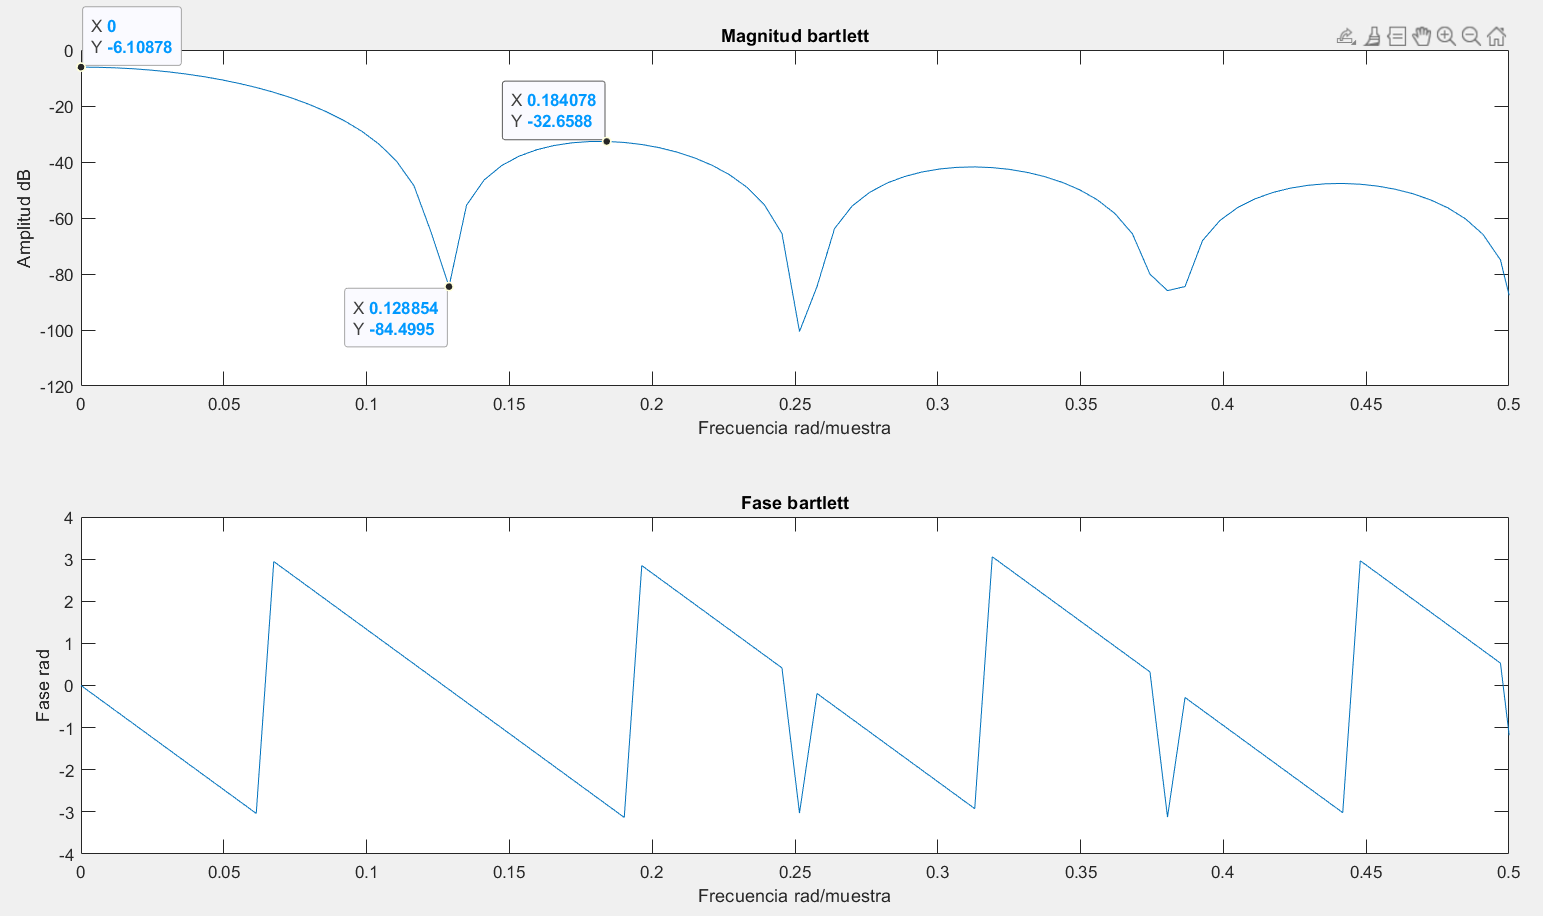
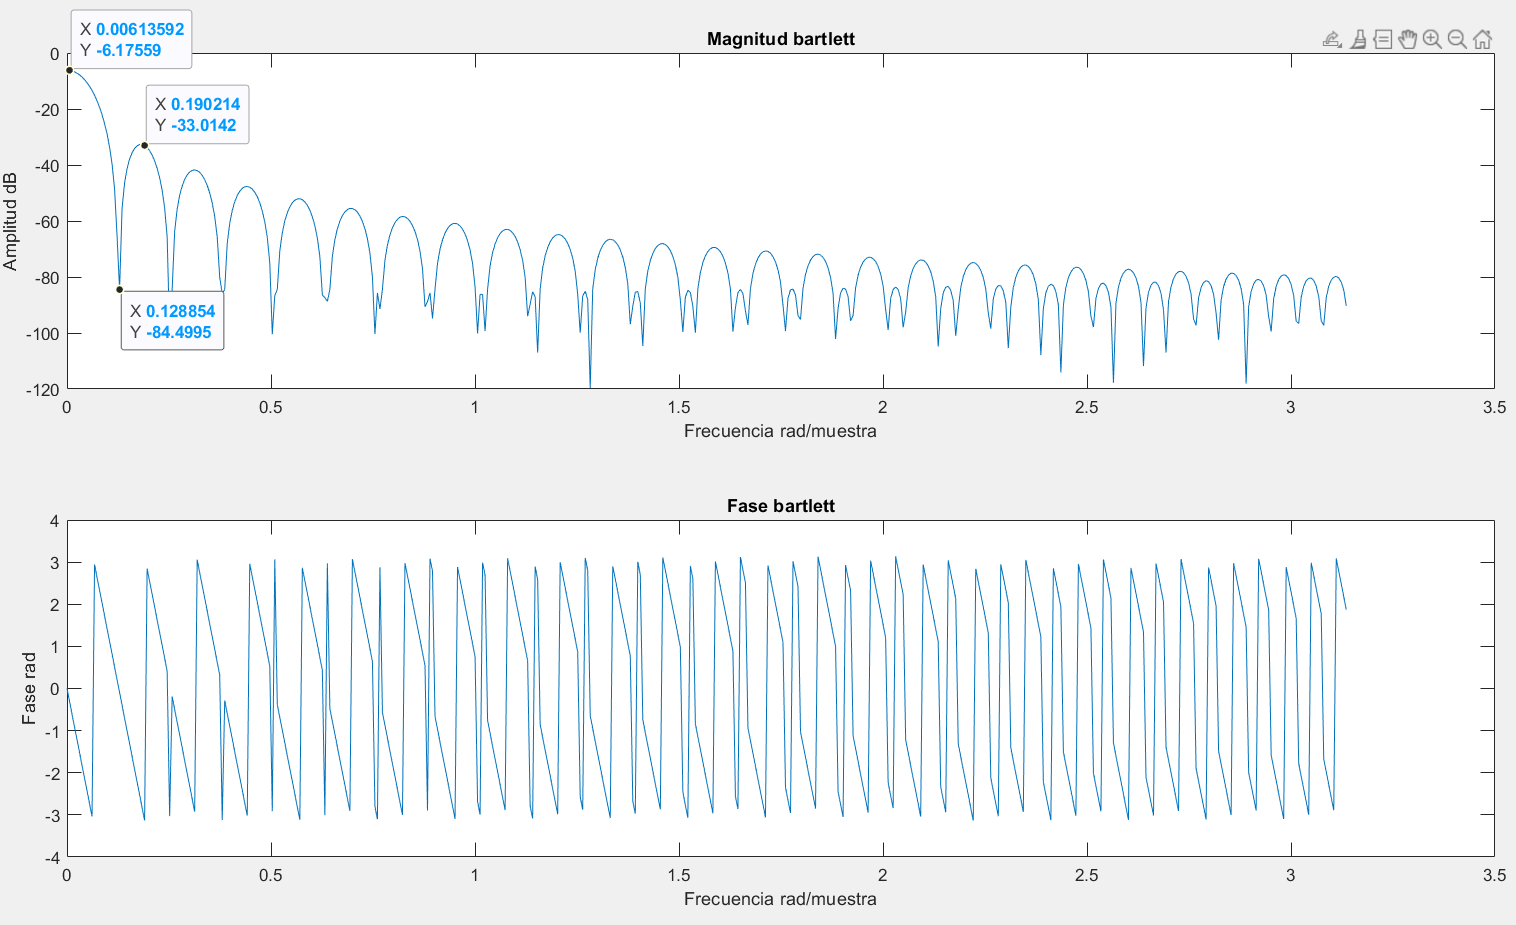
lab3 p1 III 1)
algo avance de la III 1) pero no desarrolle nada xd

diff --git a/lab3dsp_G7_Aguilera_Huidobro/LabP1/scripts/Parte2.m b/lab3dsp_G7_Aguilera_Huidobro/LabP1/scripts/Parte2.m
@@ -67,12 +67,10 @@ xlabel('Muestras');ylabel('Amplitud');
 figure
 subplot 211
 plot(W,20*log10(abs(H)))
-xlim([0 0.5]);
 title('Magnitud rectwin');
 xlabel('Frecuencia rad/muestra');ylabel('Amplitud dB');
 subplot 212
 plot(W,angle(H))
-xlim([0 0.5]);
 title('Fase rectwin');
 xlabel('Frecuencia rad/muestra');ylabel('Fase rad');
 
@@ -80,12 +78,10 @@ xlabel('Frecuencia rad/muestra');ylabel('Fase rad');
 figure
 subplot 211
 plot(W,20*log10(abs(H)))
-xlim([0 0.5]);
 title('Magnitud hann');
 xlabel('Frecuencia rad/muestra');ylabel('Amplitud dB');
 subplot 212
 plot(W,angle(H))
-xlim([0 0.5]);
 title('Fase hann');
 xlabel('Frecuencia rad/muestra');ylabel('Fase rad');
 
@@ -93,12 +89,10 @@ xlabel('Frecuencia rad/muestra');ylabel('Fase rad');
 figure
 subplot 211
 plot(W,20*log10(abs(H)))
-xlim([0 0.5]);
 title('Magnitud hamming');
 xlabel('Frecuencia rad/muestra');ylabel('Amplitud dB');
 subplot 212
 plot(W,angle(H))
-xlim([0 0.5]);
 title('Fase hamming');
 xlabel('Frecuencia rad/muestra');ylabel('Fase rad');
 
@@ -106,12 +100,10 @@ xlabel('Frecuencia rad/muestra');ylabel('Fase rad');
 figure
 subplot 211
 plot(W,20*log10(abs(H)))
-xlim([0 0.5]);
 title('Magnitud blackman');
 xlabel('Frecuencia rad/muestra');ylabel('Amplitud dB');
 subplot 212
 plot(W,angle(H))
-xlim([0 0.5]);
 title('Fase blackman');
 xlabel('Frecuencia rad/muestra');ylabel('Fase rad');
 
@@ -119,12 +111,10 @@ xlabel('Frecuencia rad/muestra');ylabel('Fase rad');
 figure
 subplot 211
 plot(W,20*log10(abs(H)))
-xlim([0 0.5]);
 title('Magnitud bartlett');
 xlabel('Frecuencia rad/muestra');ylabel('Amplitud dB');
 subplot 212
 plot(W,angle(H))
-xlim([0 0.5]);
 title('Fase bartlett');
 xlabel('Frecuencia rad/muestra');ylabel('Fase rad');
 %% funcions

diff --git a/lab3dsp_G7_Aguilera_Huidobro/LabP1/scripts/Parte3.m b/lab3dsp_G7_Aguilera_Huidobro/LabP1/scripts/Parte3.m
@@ -1,0 +1,30 @@
+%% DISE ̃NO DE FILTROSFIRUSANDO HERRAMIENTAS DEMATLAB 1) 
+
+
+N = 70; %orden
+fc = 3000; %hz -> x
+tm = 16000; % sps -> 2
+
+W =  fc*2/tm; % ?????? 
+
+rect = rectwin(N+1);
+bckmn = blackman(N+1);
+
+B1 = fir1(N,W,rect);
+B2 = fir1(N,W,bckmn);
+
+%usar comando fdatool y generar filtro con B.
+figure 
+freqz(B1)
+title('Ventana rectangular');
+
+figure
+freqz(B2)
+title('Ventana Blackman');
+
+%% 2)
+
+
+%% 3)
+
+
